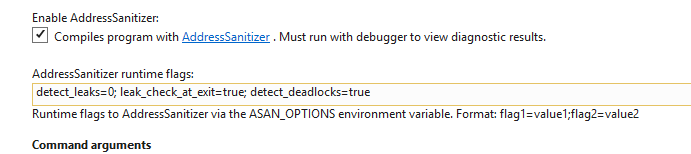
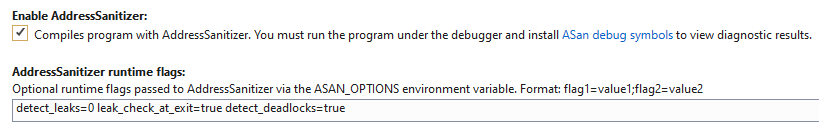
various github issue fixe

Changed region(s): [[0.0, 0.4341, 1.0, 0.9922], [0.0, 0.062, 1.0, 0.3411], [0.0, 0.3101, 0.0304, 0.3411]]

diff --git a/docs/mfc/codesnippet/CPP/derived-message-maps_1.cpp b/docs/mfc/codesnippet/CPP/derived-message-maps_1.cpp
@@ -1,1 +1,1 @@
-BEGIN_MESSAGE_MAP(CMyView, CFormView)
+BEGIN_MESSAGE_MAP(CMyView, CView)

diff --git a/docs/mfc/documents-views-and-the-framework.md b/docs/mfc/documents-views-and-the-framework.md
@@ -1,14 +1,31 @@
 ---
-title: "Documents, Views, and the Framework"
-ms.date: "11/19/2018"
+title: "Documents, views, and the Microsoft Foundation Class (MFC) library framework"
+description: "A description of documents and views in the Microsoft Foundation Class (MFC) library."
+ms.date: "09/23/2020"
 helpviewer_keywords: ["document templates [MFC], template objects", "applications [MFC]", "MFC, application framework", "application objects [MFC], relation to other MFC objects", "documents [MFC]", "MFC, documents", "document objects [MFC], in relation to other MFC objects", "view objects [MFC], relation to other MFC objects", "MFC, views", "document/view architecture [MFC], about document/view architecture", "objects [MFC], MFC applications", "MFC object relationships", "thread objects [MFC]"]
 ms.assetid: 409ddd9b-66ad-4625-84f7-bf55a41d697b
 ---
-# Documents, Views, and the Framework
+# Documents, views, and the framework
 
 At the heart of the MFC framework are the concepts of document and view. A document is a data object with which the user interacts in an editing session. It is created by the **New** or **Open** command on the **File** menu and is typically saved in a file. (Standard MFC documents, derived from class `CDocument`, are different from Active documents and OLE compound documents.) A view is a window object through which the user interacts with a document.
 
 The key objects in a running application are:
+
+- Thread objects
+
+   If your application creates separate threads of execution — for example, to perform calculations in the background — you'll use classes derived from [CWinThread](reference/cwinthread-class.md). [CWinApp](reference/cwinapp-class.md) itself is derived from `CWinThread` and represents the primary thread of execution (or the main process) in your application. You can also use MFC in secondary threads.
+
+- The application object
+
+   Your application class (derived from [CWinApp](reference/cwinapp-class.md)) controls all of the objects above and specifies application behavior such as initialization and cleanup. The application's one and only application object creates and manages the document templates for any document types the application supports.
+
+- The document template or templates
+
+   A document template orchestrates the creation of documents, views, and frame windows. A particular document-template class, derived from class [CDocTemplate](reference/cdoctemplate-class.md), creates and manages all open documents of one type. Applications that support more than one type of document have multiple document templates. Use class [CSingleDocTemplate](reference/csingledoctemplate-class.md) for SDI applications, or use class [CMultiDocTemplate](reference/cmultidoctemplate-class.md) for MDI applications.
+
+- The frame windows
+
+   Views are displayed inside "document frame windows." In an SDI application, the document frame window is also the "main frame window" for the application. In an MDI application, document windows are child windows displayed inside a main frame window. Your derived main frame-window class specifies the styles and other characteristics of the frame windows that contain your views. If you need to customize frame windows, derive from [CFrameWnd](reference/cframewnd-class.md) to customize the document frame window for SDI applications. Derive from [CMDIFrameWnd](reference/cmdiframewnd-class.md) to customize the main frame window for MDI applications. Also derive a class from [CMDIChildWnd](reference/cmdichildwnd-class.md) to customize each distinct kind of MDI document frame windows that your application supports.
 
 - The document or documents.
 
@@ -21,22 +38,6 @@ The key objects in a running application are:
    Your view class (derived from [CView](reference/cview-class.md)) is the user's "window on the data." The view class controls how the user sees your document's data and interacts with it. In some cases, you may want a document to have multiple views of the data.
 
    If you need scrolling, derive from [CScrollView](reference/cscrollview-class.md). If your view has a user interface that is laid out in a dialog-template resource, derive from [CFormView](reference/cformview-class.md). For simple text data, use or derive from [CEditView](reference/ceditview-class.md). For a form-based data-access application, such as a data-entry program, derive from [CRecordView](reference/crecordview-class.md) (for ODBC). Also available are classes [CTreeView](reference/ctreeview-class.md), [CListView](reference/clistview-class.md), and [CRichEditView](reference/cricheditview-class.md).
-
-- The frame windows
-
-   Views are displayed inside "document frame windows." In an SDI application, the document frame window is also the "main frame window" for the application. In an MDI application, document windows are child windows displayed inside a main frame window. Your derived main frame-window class specifies the styles and other characteristics of the frame windows that contain your views. If you need to customize frame windows, derive from [CFrameWnd](reference/cframewnd-class.md) to customize the document frame window for SDI applications. Derive from [CMDIFrameWnd](reference/cmdiframewnd-class.md) to customize the main frame window for MDI applications. Also derive a class from [CMDIChildWnd](reference/cmdichildwnd-class.md) to customize each distinct kind of MDI document frame windows that your application supports.
-
-- The document template or templates
-
-   A document template orchestrates the creation of documents, views, and frame windows. A particular document-template class, derived from class [CDocTemplate](reference/cdoctemplate-class.md), creates and manages all open documents of one type. Applications that support more than one type of document have multiple document templates. Use class [CSingleDocTemplate](reference/csingledoctemplate-class.md) for SDI applications, or use class [CMultiDocTemplate](reference/cmultidoctemplate-class.md) for MDI applications.
-
-- The application object
-
-   Your application class (derived from [CWinApp](reference/cwinapp-class.md)) controls all of the objects above and specifies application behavior such as initialization and cleanup. The application's one and only application object creates and manages the document templates for any document types the application supports.
-
-- Thread objects
-
-   If your application creates separate threads of execution — for example, to perform calculations in the background — you'll use classes derived from [CWinThread](reference/cwinthread-class.md). [CWinApp](reference/cwinapp-class.md) itself is derived from `CWinThread` and represents the primary thread of execution (or the main process) in your application. You can also use MFC in secondary threads.
 
 In a running application, these objects cooperatively respond to user actions, bound together by commands and other messages. A single application object manages one or more document templates. Each document template creates and manages one or more documents (depending on whether the application is SDI or MDI). The user views and manipulates a document through a view contained inside a frame window. The following figure shows the relationships among these objects for an SDI application.
 

diff --git a/docs/c-runtime-library/reference/round-roundf-roundl.md b/docs/c-runtime-library/reference/round-roundf-roundl.md
@@ -1,7 +1,7 @@
 ---
 title: "round, roundf, roundl"
-description: "API reference for round, roundf, and roundl; which round a floating-point value to the nearest integer."
-ms.date: "9/1/2020"
+description: "API reference for round, roundf, and roundl; which round a floating-point value to the nearest integer value."
+ms.date: "09/25/2020"
 api_name: ["round", "roundl", "roundf", "_o_round", "_o_roundf", "_o_roundl"]
 api_location: ["msvcrt.dll", "msvcr80.dll", "msvcr90.dll", "msvcr100.dll", "msvcr100_clr0400.dll", "msvcr110.dll", "msvcr110_clr0400.dll", "msvcr120.dll", "msvcr120_clr0400.dll", "ucrtbase.dll", "api-ms-win-crt-math-l1-1-0.dll", "api-ms-win-crt-private-l1-1-0.dll"]
 api_type: ["DLLExport"]
@@ -12,7 +12,7 @@ ms.assetid: 6be90877-193c-4b80-a32b-c3eca33f9c6f
 ---
 # round, roundf, roundl
 
-Rounds a floating-point value to the nearest integer.
+Rounds a floating-point value to the nearest integer value.
 
 ## Syntax
 
@@ -68,46 +68,60 @@ For additional compatibility information, see [Compatibility](../../c-runtime-li
 ## Example
 
 ```C
-// crt_round.c
-// Build with: cl /W3 /Tc crt_round.c
-// This example displays the rounded results of
-// the floating-point values 2.499999, -2.499999,
-// 2.8, -2.8, 2.5 and -2.5.
+// Build with: cl /W3 /Tc
+// This example displays the rounded
+// results of floating-point values
 
 #include <math.h>
 #include <stdio.h>
 
-int main( void )
+int main()
 {
-   double x = 2.499999;
-   float y = 2.8f;
-   long double z = 2.5;
+    printf("===== Round a float\n\n");
+    float floatValue = 2.4999999f; // float stores a value close to, but not exactly equal to, the initializer below. floatValue will contain 2.5 because it is the closest single precision value
+    printf("roundf(%.1000g) is %.1000g\n", floatValue, roundf(floatValue));
+    printf("roundf(%.1000g) is %.1000g\n", -floatValue, roundf(-floatValue));
 
-   printf("round(%f) is %.0f\n", x, round(x));
-   printf("round(%f) is %.0f\n", -x, round(-x));
-   printf("roundf(%f) is %.0f\n", y, roundf(y));
-   printf("roundf(%f) is %.0f\n", -y, roundf(-y));
-   printf("roundl(%Lf) is %.0Lf\n", z, roundl(z));
-   printf("roundl(%Lf) is %.0Lf\n", -z, roundl(-z));
+    // double stores a value close to, but not exactly equal to, the initializer below. The closest double value is just slightly larger.
+    double doubleValue = 2.4999999;
+    printf("\n===== Round a double\n\n");
+    printf("round(%.1000g) is %.1000g\n", doubleValue, round(doubleValue));
+    printf("round(%.1000g) is %.1000g\n", -doubleValue, round(-doubleValue));
+
+    // long double stores a value close to, but not exactly equal to, the initializer below. The closest long double value is just slightly larger.
+    long double longDoubleValue = 2.4999999L;
+    printf("\n===== Round a long double\n\n");
+    printf("roundl(%.1000g) is %.1000g\n", longDoubleValue, roundl(longDoubleValue));
+    printf("roundl(%.1000g) is %.1000g\n", -longDoubleValue, roundl(-longDoubleValue));
+
+    return 0;
 }
 ```
 
 ```Output
-round(2.499999) is 2
-round(-2.499999) is -2
-roundf(2.800000) is 3
-roundf(-2.800000) is -3
-roundl(2.500000) is 3
-roundl(-2.500000) is -3
+===== Round a float
+
+roundf(2.5) is 3
+roundf(-2.5) is -3
+
+===== Round a double
+
+round(2.499999900000000163657887242152355611324310302734375) is 2
+round(-2.499999900000000163657887242152355611324310302734375) is -2
+
+===== Round a long double
+
+roundl(2.499999900000000163657887242152355611324310302734375) is 2
+roundl(-2.499999900000000163657887242152355611324310302734375) is -2
 ```
 
 ## See also
 
-[Floating-Point Support](../../c-runtime-library/floating-point-support.md)<br/>
-[ceil, ceilf, ceill](ceil-ceilf-ceill.md)<br/>
-[floor, floorf, floorl](floor-floorf-floorl.md)<br/>
-[fmod, fmodf](fmod-fmodf.md)<br/>
-[lrint, lrintf, lrintl, llrint, llrintf, llrintl](lrint-lrintf-lrintl-llrint-llrintf-llrintl.md)<br/>
-[lround, lroundf, lroundl, llround, llroundf, llroundl](lround-lroundf-lroundl-llround-llroundf-llroundl.md)<br/>
-[nearbyint, nearbyintf, nearbyintl](nearbyint-nearbyintf-nearbyintl1.md)<br/>
-[rint, rintf, rintl](rint-rintf-rintl.md)<br/>
+[Floating-Point Support](../../c-runtime-library/floating-point-support.md)\
+[ceil, ceilf, ceill](ceil-ceilf-ceill.md)\
+[floor, floorf, floorl](floor-floorf-floorl.md)\
+[fmod, fmodf](fmod-fmodf.md)\
+[lrint, lrintf, lrintl, llrint, llrintf, llrintl](lrint-lrintf-lrintl-llrint-llrintf-llrintl.md)\
+[lround, lroundf, lroundl, llround, llroundf, llroundl](lround-lroundf-lroundl-llround-llroundf-llroundl.md)\
+[nearbyint, nearbyintf, nearbyintl](nearbyint-nearbyintf-nearbyintl1.md)\
+[rint, rintf, rintl](rint-rintf-rintl.md)\

diff --git a/docs/mfc/derived-message-maps.md b/docs/mfc/derived-message-maps.md
@@ -1,23 +1,24 @@
 ---
 title: "Derived Message Maps"
-ms.date: "11/19/2018"
+description: "Describes MFC message handling."
+ms.date: "09/23/2020"
 helpviewer_keywords: ["message handling [MFC], derived message handlers", "messages, routing", "message maps [MFC], derived", "derived message maps"]
 ms.assetid: 21829556-6e64-40c3-8279-fed85d99de77
 ---
 # Derived Message Maps
 
-During message handling, checking a class's own message map is not the end of the message-map story. What happens if class `CMyView` (derived from `CView`) has no matching entry for a message
+During message handling, checking a class's own message map is not the end of the message-map story. What happens if class `CMyView` (derived from `CView`) has no matching entry for a message?
 
-Keep in mind that `CView`, the base class of `CMyView`, is derived in turn from `CWnd`. Thus `CMyView` *is* a `CView` and *is* a `CWnd`. Each of those classes has its own message map. The figure "A View Hierarchy" below shows the hierarchical relationship of the classes, but keep in mind that a `CMyView` object is a single object that has the characteristics of all three classes.
+Keep in mind that `CView`, the base class of `CMyView`, is derived in turn from `CWnd`. Thus `CMyView` *is* a `CView` and *is* a `CWnd`. Each of those classes has its own message map. The figure below shows the hierarchical relationship of the classes, but keep in mind that a `CMyView` object is a single object that has the characteristics of all three classes.
 
 ![Hierarchy of a view](../mfc/media/vc38621.gif "Hierarchy of a view") <br/>
 A View Hierarchy
 
-So if a message can't be matched in class `CMyView`'s message map, the framework also searches the message map of its immediate base class. The `BEGIN_MESSAGE_MAP` macro at the start of the message map specifies two class names as its arguments:
+If a message can't be matched in class `CMyView`'s message map, the framework also searches the message map of its immediate base class. The `BEGIN_MESSAGE_MAP` macro at the start of the message map specifies two class names as its arguments:
 
 [!code-cpp[NVC_MFCMessageHandling#2](codesnippet/cpp/derived-message-maps_1.cpp)]
 
-The first argument names the class to which the message map belongs. The second argument provides a connection with the immediate base class — `CView` here — so the framework can search its message map, too.
+The first argument names the class to which the message map belongs. The second argument provides a connection with the immediate base class, in this case `CView`, so that the framework can search its message map, too.
 
 The message handlers provided in a base class are thus inherited by the derived class. This is very similar to normal virtual member functions without needing to make all handler member functions virtual.
 

diff --git a/docs/c-runtime-library/reference/strerror-s-strerror-s-wcserror-s-wcserror-s.md b/docs/c-runtime-library/reference/strerror-s-strerror-s-wcserror-s-wcserror-s.md
@@ -1,6 +1,7 @@
 ---
 title: "strerror_s, _strerror_s, _wcserror_s, __wcserror_s"
-ms.date: "06/09/2020"
+description: "Functions with security enhancements to get a system error message or print a user-supplied error message."
+ms.date: "09/25/2020"
 api_name: ["__wcserror_s", "_strerror_s", "_wcserror_s", "strerror_s", "_o__strerror_s", "_o__wcserror_s", "_o_strerror_s"]
 api_location: ["msvcrt.dll", "msvcr80.dll", "msvcr90.dll", "msvcr100.dll", "msvcr100_clr0400.dll", "msvcr110.dll", "msvcr110_clr0400.dll", "msvcr120.dll", "msvcr120_clr0400.dll", "ucrtbase.dll", "api-ms-win-crt-runtime-l1-1-0.dll", "api-ms-win-crt-private-l1-1-0.dll"]
 api_type: ["DLLExport"]
@@ -36,6 +37,9 @@ errno_t __wcserror_s(
    size_t sizeInWords,
    const wchar_t *strErrMsg
 );
+```
+
+```cpp
 template <size_t size>
 errno_t strerror_s(
    char (&buffer)[size],
@@ -60,26 +64,26 @@ errno_t __wcserror_s(
 
 ### Parameters
 
-*buffer*<br/>
+*buffer*\
 Buffer to hold error string.
 
-*sizeInBytes*<br/>
+*sizeInBytes*\
 The number of bytes in the buffer.
 
-*sizeInWords*<br/>
+*sizeInWords*\
 The number of words in the buffer.
 
-*errnum*<br/>
+*errnum*\
 Error number.
 
-*strErrMsg*<br/>
+*strErrMsg*\
 User-supplied message.
 
 ## Return Value
 
 Zero if successful, an error code on failure.
 
-### Error Condtions
+### Error conditions
 
 |*buffer*|*sizeInBytes/sizeInWords*|*strErrMsg*|Contents of *buffer*|
 |--------------|------------------------|-----------------|--------------------------|
@@ -87,6 +91,8 @@ Zero if successful, an error code on failure.
 |any|0|any|not modified|
 
 ## Remarks
+
+The **strerror_s** function is thread-safe.
 
 The **strerror_s** function maps *errnum* to an error-message string, returning the string in *buffer*. **_strerror_s** doesn't take the error number; it uses the current value of **errno** to determine the appropriate message. Neither **strerror_s** nor **_strerror_s** actually prints the message: For that, you need to call an output function such as [fprintf](fprintf-fprintf-l-fwprintf-fwprintf-l.md):
 
@@ -137,7 +143,7 @@ See the example for [perror](perror-wperror.md).
 
 ## See also
 
-[String Manipulation](../../c-runtime-library/string-manipulation-crt.md)<br/>
-[clearerr](clearerr.md)<br/>
-[ferror](ferror.md)<br/>
-[perror, _wperror](perror-wperror.md)<br/>
+[String Manipulation](../../c-runtime-library/string-manipulation-crt.md)\
+[clearerr](clearerr.md)\
+[ferror](ferror.md)\
+[perror, _wperror](perror-wperror.md)

diff --git a/docs/linux/linux-asan-configuration.md b/docs/linux/linux-asan-configuration.md
@@ -1,7 +1,7 @@
 ---
 title: "Configure Linux projects to use Address Sanitizer"
 description: "Describes how to configure C++ Linux projects in Visual Studio to use Address Sanitizer."
-ms.date: "06/07/2019"
+ms.date: "09/25/2020"
 ---
 # Configure Linux projects to use Address Sanitizer
 
@@ -27,7 +27,7 @@ You can also view the full ASan output (including where the corrupted memory was
 ## Enable ASan for MSBuild-based Linux projects
 
 > [!NOTE]
-> Starting in Visual Studio 2019 version 16.4, AddressSanitizer for Linux projects is enabled via **Configuration Properties** > **C/C++** > **Enable Address Sanitizer**.
+> Starting in Visual Studio 2019 version 16.4, AddressSanitizer for Linux projects is enabled via **Project properties** > **Configuration Properties** > **C/C++** > **Enable Address Sanitizer**.
 
 To enable ASan for MSBuild-based Linux projects, right-click on the project in **Solution Explorer** and select **Properties**. Next, navigate to **Configuration Properties** > **C/C++** > **Sanitizers**. ASan is enabled via compiler and linker flags, and requires your project to be recompiled to work.
 
@@ -45,7 +45,7 @@ Make sure you have a Linux configuration (for example, **Linux-Debug**) selected
 
 ![Screenshot of the left pane with Linux Debug listed as one of the Configuration options.](media/linux-debug-configuration.png)
 
-The ASan options are under **General**. Enter the ASan runtime flags in the format "flag=value", separated by semicolons.
+The ASan options are under **General**. Enter the ASan runtime flags in the format "flag=value", separated by spaces. The UI incorrectly suggests using semi-colons. Use spaces or colons, instead.
 
 ![Screenshot of the Enable Address Sanitizer option showing some Address Sanitizer run time flags.](media/cmake-settings-asan-options.png)
 

diff --git a/docs/linux/cmake-linux-configure.md b/docs/linux/cmake-linux-configure.md
@@ -96,7 +96,7 @@ When you do a build:
 
 ## Choose a Linux target
 
-When you open a CMake project folder, Visual Studio parses the *CMakeLists.txt* file and specifies a Windows target of **x86-Debug**. To target a remote Linux system, you'll change the project settings to **Linux-Debug** or **Linux-Release**.
+When you open a CMake project folder, Visual Studio parses the *CMakeLists.txt* file and specifies a Windows target of **x86-Debug**. To target a remote Linux system, you'll change the project settings, based on your Linux compiler, to something like **Linux-Debug** or **Linux-Release**.
 
 If you specify a remote Linux target, your source is copied to the remote system.
 
